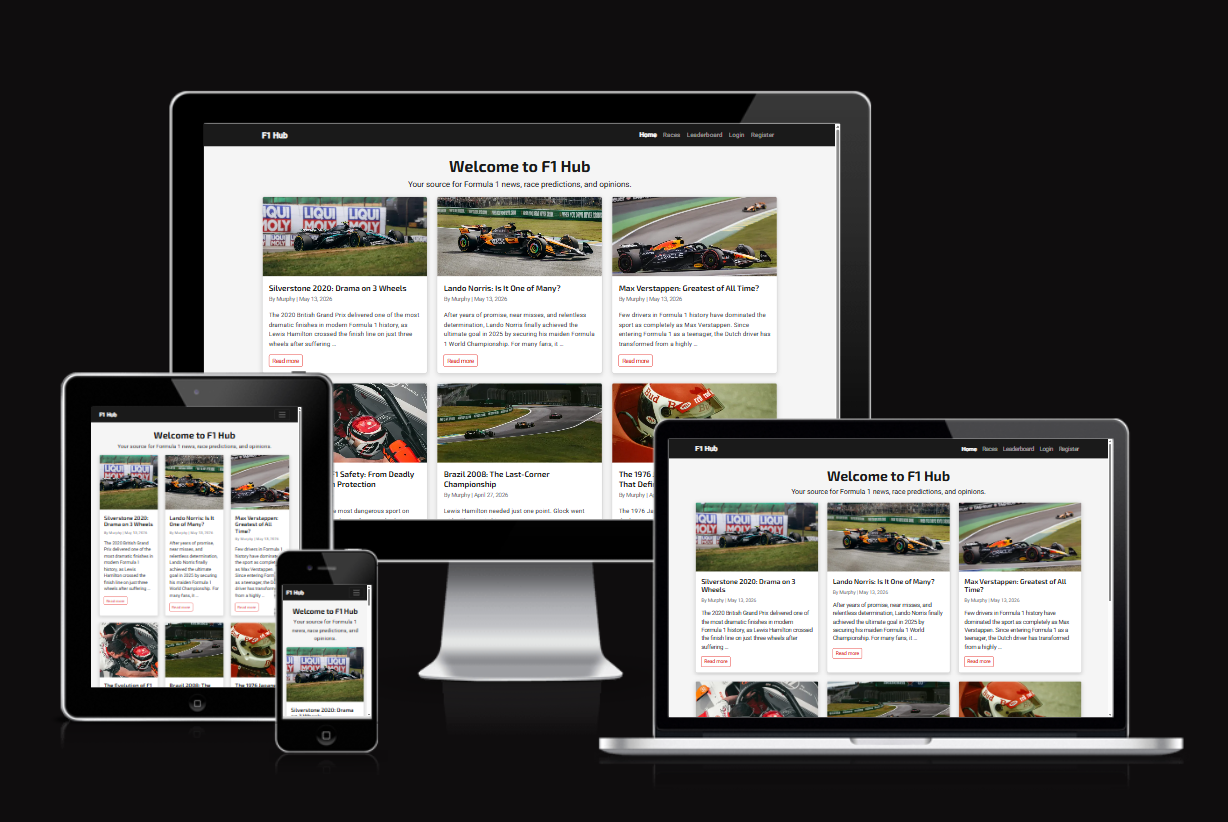
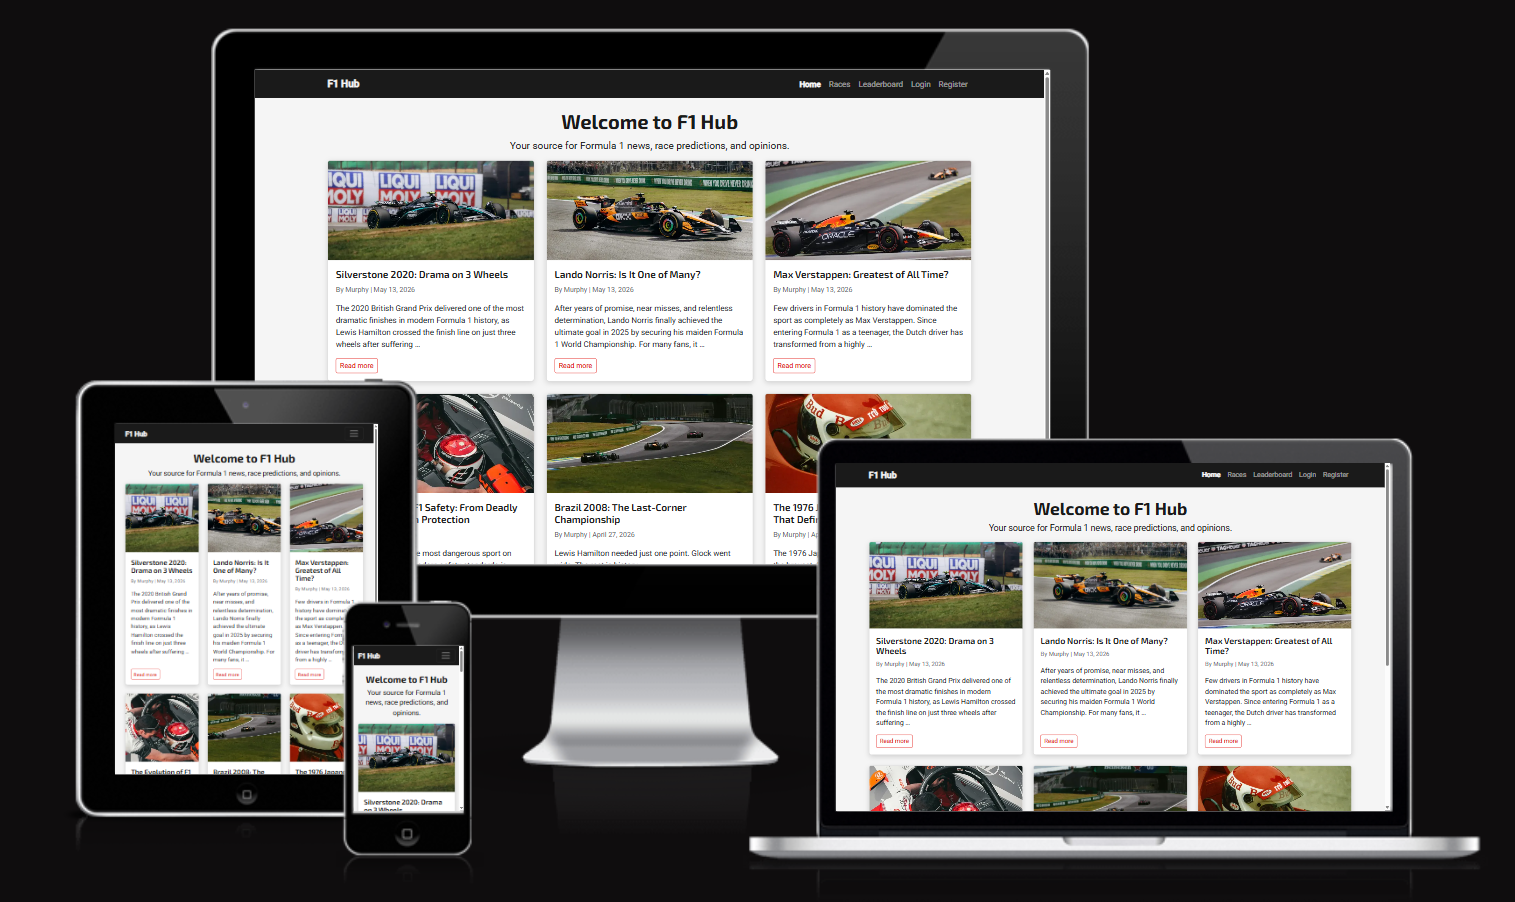
Re-enable XFrameOptionsMiddleware and add screenshot

diff --git a/f1blog/settings.py b/f1blog/settings.py
@@ -70,7 +70,7 @@ MIDDLEWARE = [
     'django.middleware.csrf.CsrfViewMiddleware',
     'django.contrib.auth.middleware.AuthenticationMiddleware',
     'django.contrib.messages.middleware.MessageMiddleware',
-    #'django.middleware.clickjacking.XFrameOptionsMiddleware',
+    'django.middleware.clickjacking.XFrameOptionsMiddleware',
 ]
 
 ROOT_URLCONF = 'f1blog.urls'